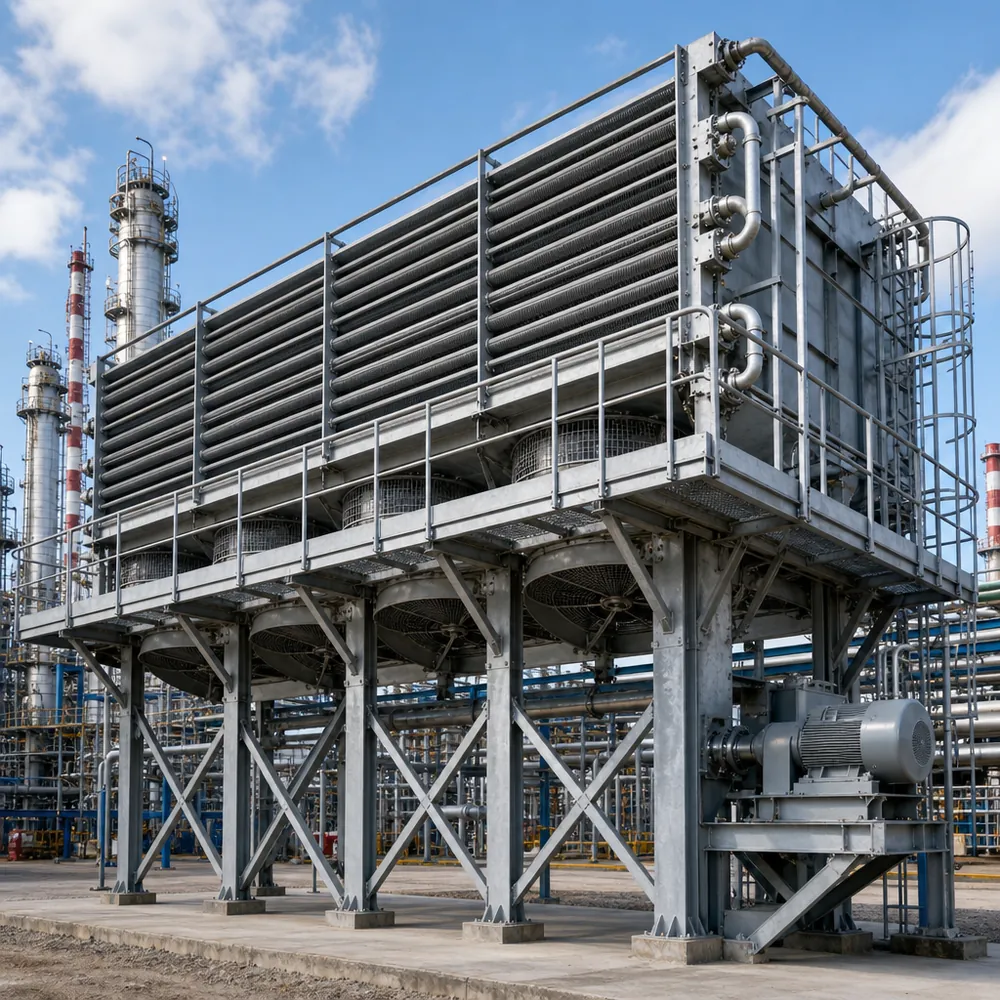
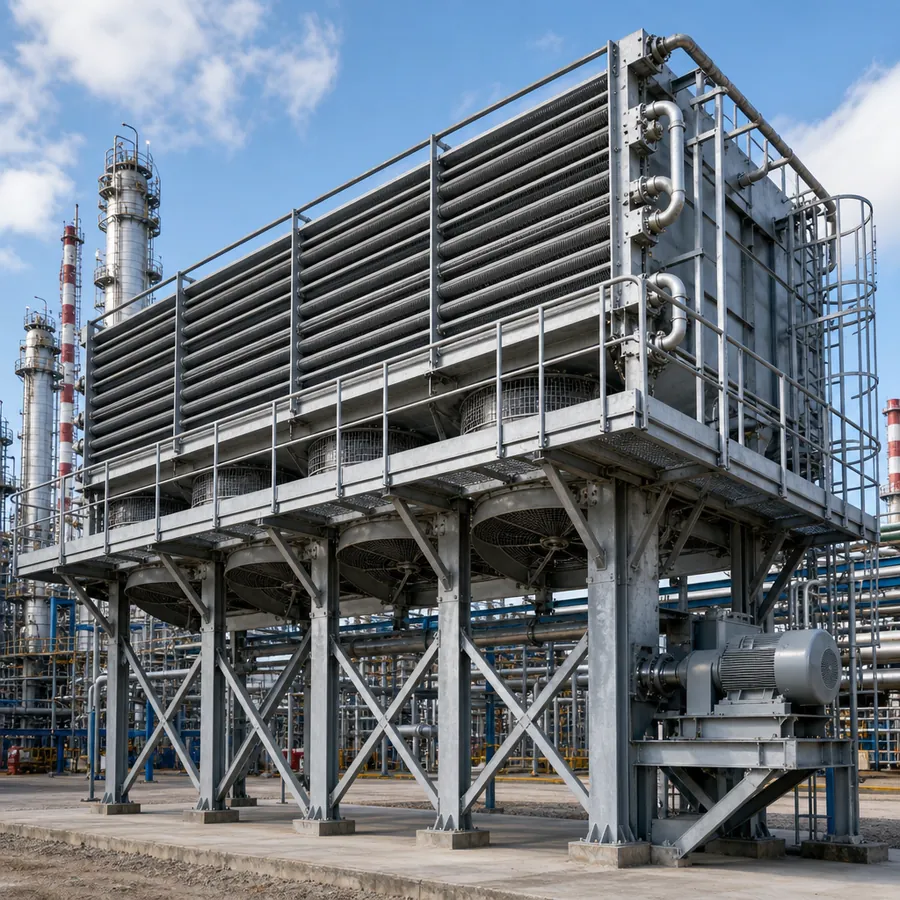
content: синхронизация с презентацией рев2
- НОВОЕ: карточка «Испарительные градирни» (слайд 8) с фото и
  характеристиками (СВГ-К-8…400, 46–2325 кВт, форсунки, опции)
- АВО: карточка переименована в «Аппараты воздушного охлаждения»,
  убран пункт «Градирни всех типов, кроме башенных» (слайд 7 рев2),
  новое фото АВО из презентации
- направления (слайд 2 рев2): №3 — «испарительных градирен», №5 —
  «Ёмкостное и сепарационное оборудование», №6 — «Модульные тепловые
  инженерные системы»; №4 — уточнена формулировка
- тикер обновлён соответственно

diff --git a/src/data.ts b/src/data.ts
@@ -2,6 +2,7 @@ import heroRefinery from './assets/photos/hero_refinery.webp'
 import imgTeam from './assets/photos/team.webp'
 import imgPump from './assets/photos/img_3024.webp'
 import imgCool from './assets/photos/cool_avo.webp'
+import imgTower from './assets/photos/cooltower.webp'
 import imgHx from './assets/photos/hx_shell.webp'
 import imgVessel from './assets/photos/img_3034.webp'
 import imgBoiler from './assets/photos/img_3047.webp'
@@ -42,8 +43,8 @@ export const designMeta = [
 
 export const tickerItems = [
   'Проектирование технологических установок', 'Насосное оборудование', 'Промышленное охлаждение',
-  'Теплообмен', 'Ёмкостной и сепарационный флот', 'Модульная энергетика',
-  'АСУ ТП · ПАЗ · Exd / Exi', 'Сервисное обслуживание',
+  'Испарительные градирни', 'Теплообмен', 'Ёмкостное и сепарационное оборудование',
+  'Модульные тепловые инженерные системы', 'АСУ ТП · ПАЗ · Exd / Exi', 'Сервисное обслуживание',
 ]
 
 export const designPhoto = imgAcs
@@ -58,10 +59,10 @@ export const designItems = [
 export const directions = [
   { n: '№1', href: '#design', icon: 'building', h: 'Проектирование технологических установок', p: 'Разработка современных и безопасных проектных решений для технологических процессов НПЗ в строгом соответствии с требованиями Ростехнадзора.' },
   { n: '№2', href: '#eq-pump', icon: 'pump', h: 'Гидравлические системы и перекачка сред', p: 'Подбор и поставка промышленных насосов различных типов и конфигураций, адаптированных для работы с агрессивными, вязкими и высокотемпературными нефтепродуктами.' },
-  { n: '№3', href: '#eq-cooling', icon: 'snow', h: 'Системы промышленного охлаждения', p: 'Поставка аппаратов воздушного охлаждения (АВО) и градирен всех типов, за исключением башенных, обеспечивающих стабильный температурный режим процессов.' },
-  { n: '№4', href: '#eq-hx', icon: 'hx', h: 'Теплообменное оборудование', p: 'Расчёт и дистрибуция высокоэффективных теплообменников — кожухотрубных, спиральных и пластинчатых (разборных и сварных) для оптимальной рекуперации тепла.' },
-  { n: '№5', href: '#eq-vessel', icon: 'vessel', h: 'Ёмкостной и сепарационный флот', p: 'Поставка технологических ёмкостей, резервуаров и сепарационного оборудования для разделения, подготовки и хранения многофазных сред.' },
-  { n: '№6', href: '#eq-boiler', icon: 'bolt', h: 'Модульная энергетика', p: 'Проектирование и поставка БТП и автоматизированных блочно-модульных котельных высокой заводской готовности для надёжного теплоснабжения объектов инфраструктуры.' },
+  { n: '№3', href: '#eq-cooling', icon: 'snow', h: 'Системы промышленного охлаждения', p: 'Поставка аппаратов воздушного охлаждения (АВО) и испарительных градирен, обеспечивающих стабильный температурный режим процессов.' },
+  { n: '№4', href: '#eq-hx', icon: 'hx', h: 'Теплообменное оборудование', p: 'Расчёт и дистрибуция высокоэффективных теплообменников — кожухотрубных, спиральных, а также пластинчатых, как разборных, так и сварных, для оптимальной рекуперации тепла.' },
+  { n: '№5', href: '#eq-vessel', icon: 'vessel', h: 'Ёмкостное и сепарационное оборудование', p: 'Поставка технологических ёмкостей, резервуаров и сепарационного оборудования для разделения, подготовки и хранения многофазных сред.' },
+  { n: '№6', href: '#eq-boiler', icon: 'bolt', h: 'Модульные тепловые инженерные системы', p: 'Проектирование и поставка БТП и автоматизированных блочно-модульных котельных высокой заводской готовности для надёжного теплоснабжения объектов инфраструктуры.' },
 ]
 
 export const equipment = [
@@ -80,7 +81,7 @@ export const equipment = [
     ],
   },
   {
-    id: 'eq-cooling', img: imgCool, h: 'Промышленное охлаждение',
+    id: 'eq-cooling', img: imgCool, h: 'Аппараты воздушного охлаждения',
     p: 'По ГОСТ Р 51364-99: биметаллические оребрённые трубы, автоматические жалюзи и рециркуляция воздуха; климатическое исполнение У1 / УХЛ1 по ГОСТ 15150.',
     items: [
       'АВО горизонтальные (АВГ)',
@@ -88,7 +89,18 @@ export const equipment = [
       'АВО малопоточные (АВМ)',
       'АВО блочные (АВБ)',
       'Аппараты для вязких продуктов (АВГ-В)',
-      'Градирни всех типов, кроме башенных',
+    ],
+  },
+  {
+    id: 'eq-tower', img: imgTower, h: 'Испарительные градирни',
+    p: 'Легированная сталь со стойкостью до −50 °C, композитные элементы вентилятора; капельный унос ≤ 0,01 % от расхода воды, испарение ≈ 1 % на каждые 5 °C перепада температуры.',
+    items: [
+      'Номинальный расход воды — 8–400 м³/ч (модели СВГ-К-8 … СВГ-К-400)',
+      'Тепловая нагрузка — 46–2325 кВт',
+      'Площадь поверхности оросителя — 65–2571 м²',
+      'Форсунки 2–72 шт. — равномерное распределение воды',
+      'Мощность вентилятора — 0,37–22 кВт (750–1500 об/мин)',
+      'Опции: датчики вибрации и температуры, обогрев для холодного пуска, модульное исполнение',
     ],
   },
   {